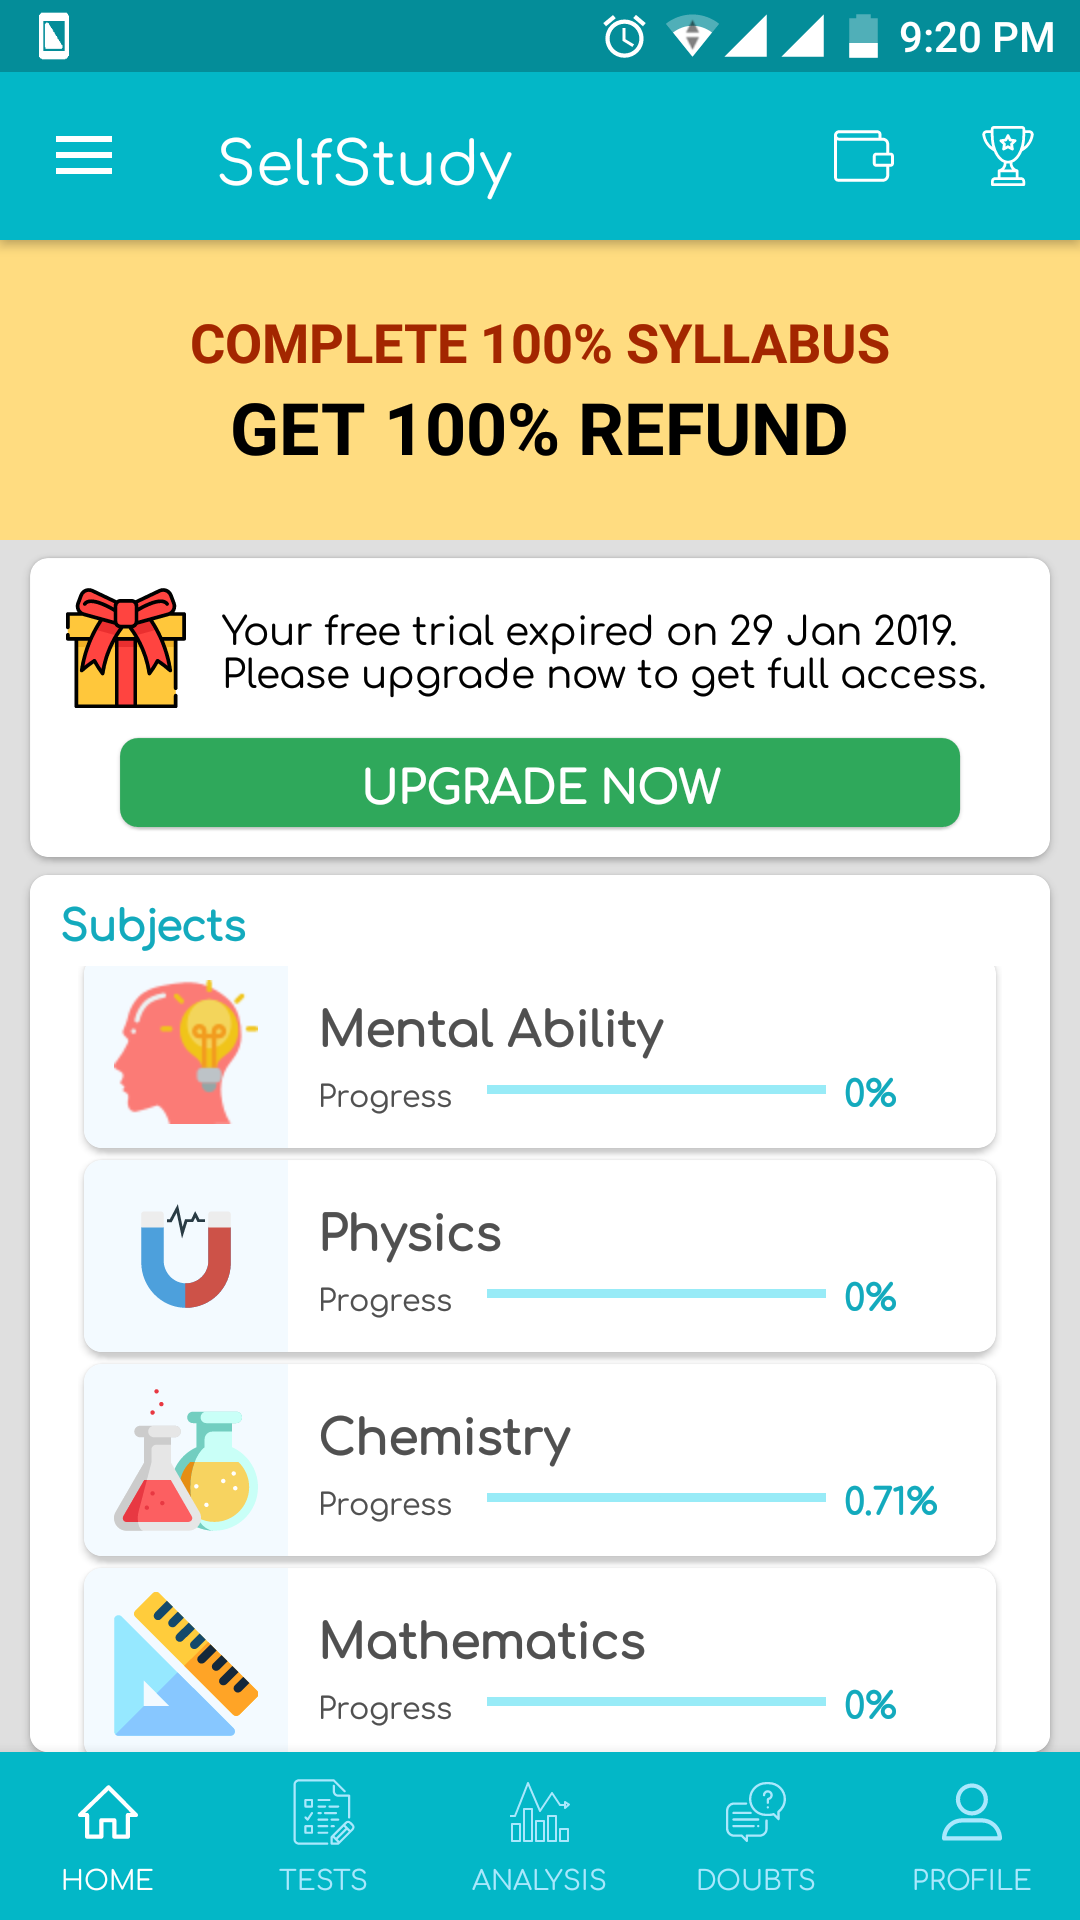
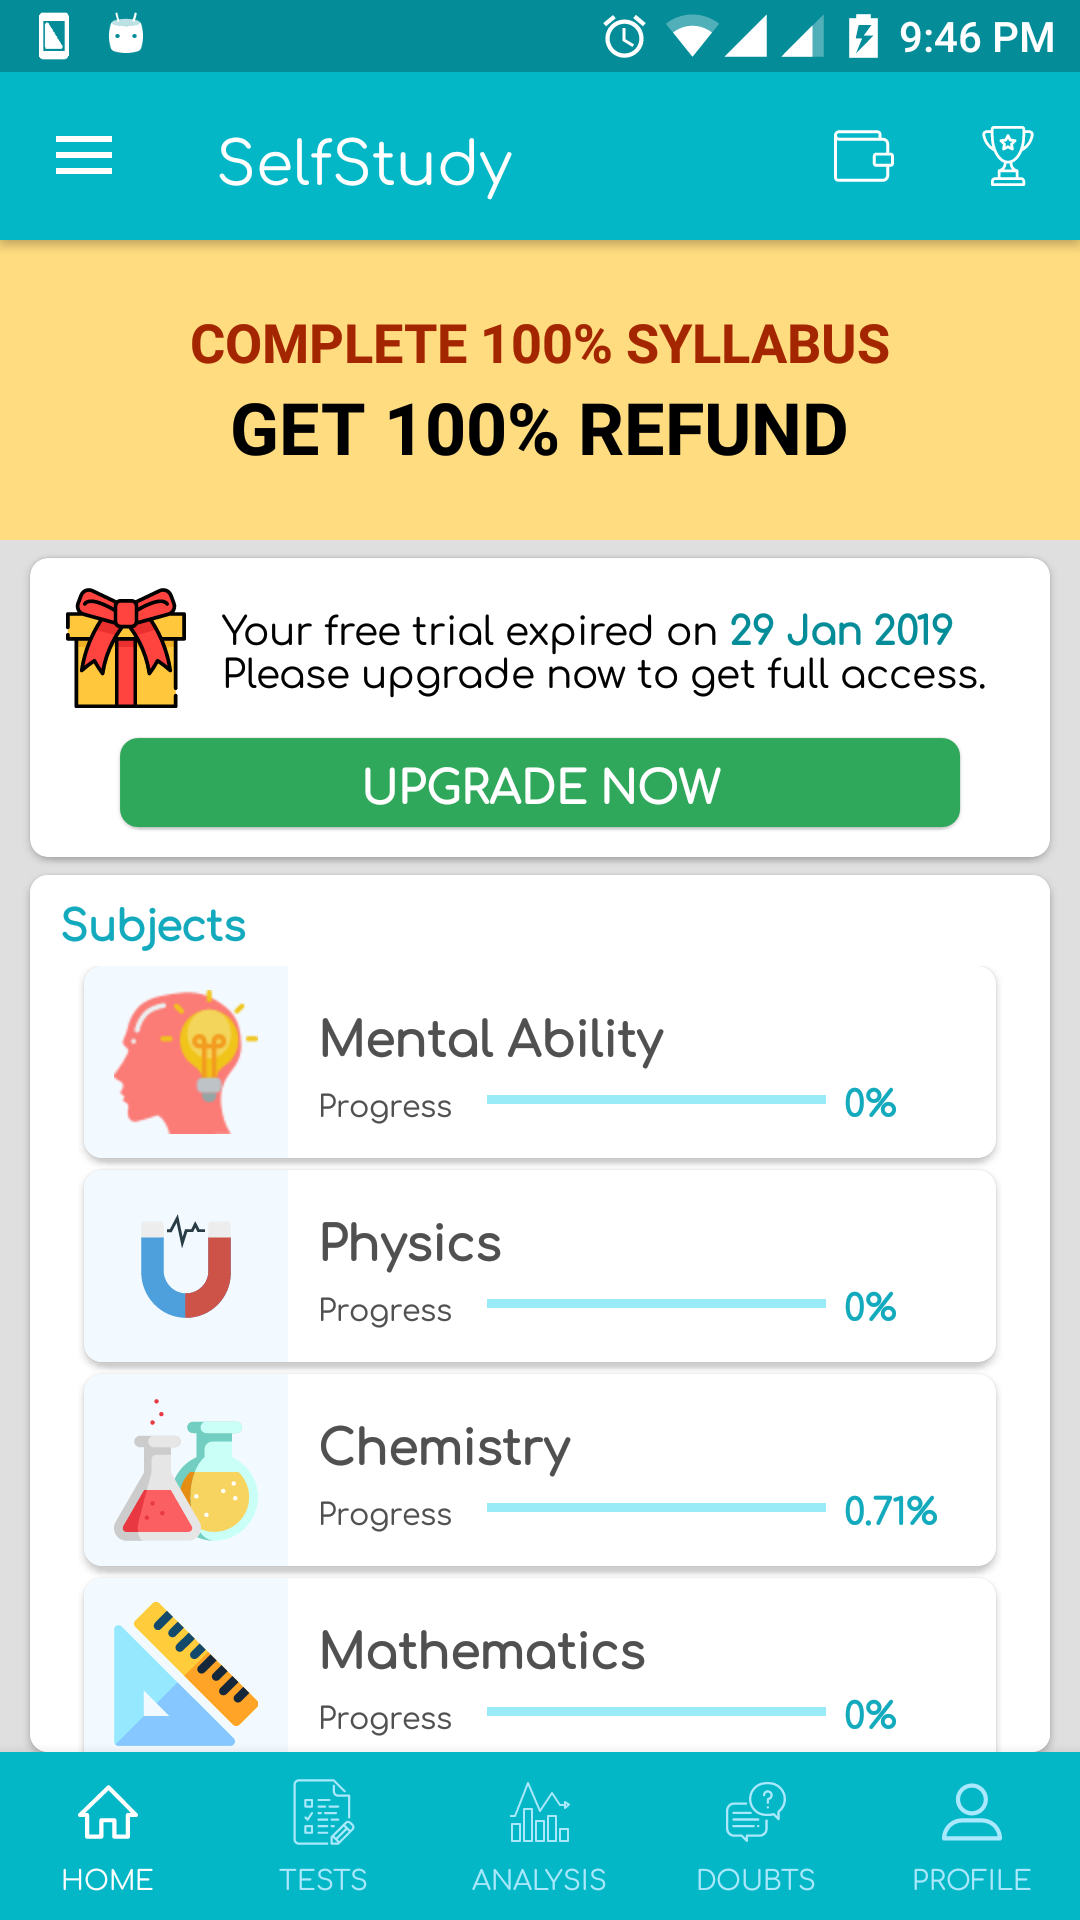
initial commit

diff --git a/app/src/main/java/com/innovvscript/selfstudyui/HomeActivity.java b/app/src/main/java/com/innovvscript/selfstudyui/HomeActivity.java
@@ -13,8 +13,14 @@ import androidx.appcompat.app.AppCompatActivity;
 import androidx.appcompat.widget.Toolbar;
 import androidx.recyclerview.widget.LinearLayoutManager;
 import androidx.recyclerview.widget.RecyclerView;
+
+import android.text.Html;
 import android.view.Menu;
 import android.view.MenuItem;
+import android.widget.TextView;
+
+import org.w3c.dom.Text;
+
 import java.util.ArrayList;
 import java.util.List;
 
@@ -36,6 +42,10 @@ public class HomeActivity extends AppCompatActivity
         getSupportActionBar().setTitle("SelfStudy");
 
         initNav(toolbar);
+        TextView textView = findViewById(R.id.promo_desc);
+        String text = "Your free trial expired on <font color='#048D99'><strong>29 Jan 2019</strong></font>\n" +
+                "        Please upgrade now to get full access.";
+        textView.setText(Html.fromHtml(text));
         subjectsList = new ArrayList<>();
         recyclerView = findViewById(R.id.recycler_view_id);
         setUpRecyclerView();
@@ -44,6 +54,7 @@ public class HomeActivity extends AppCompatActivity
         addItemToList("Physics",R.drawable.ic_physics,"0");
         addItemToList("Chemistry",R.drawable.ic_chemistry,"0.71");
         addItemToList("Mathematics",R.drawable.ic_maths,"0");
+
 
     }
 
@@ -78,16 +89,6 @@ public class HomeActivity extends AppCompatActivity
         navigation = (BottomNavigationView) findViewById(R.id.navigation);
         navigation.setOnNavigationItemSelectedListener(mOnNavigationItemSelectedListener);
 
-
-//        bottomNavigation ColorStateList
-        colorStateList = new ColorStateList(
-                new int[][]{
-                        new int[]{android.R.attr.state_checked},
-                },
-                new int[] {
-                       R.color.blueText,
-                }
-        );
     }
 
     private BottomNavigationView.OnNavigationItemSelectedListener mOnNavigationItemSelectedListener
@@ -95,11 +96,6 @@ public class HomeActivity extends AppCompatActivity
 
         @Override
         public boolean onNavigationItemSelected(@NonNull MenuItem item) {
-
-//            bottomNavigationView.setBackgroundColor(Color.WHITE);
-//            navigation.setItemBackgroundResource(android.R.color.white);
-//            navigation.setItemTextColor(colorStateList);
-//            navigation.setItemIconTintList(colorStateList);
 
             switch (item.getItemId()) {
                 case R.id.navigation_home:
